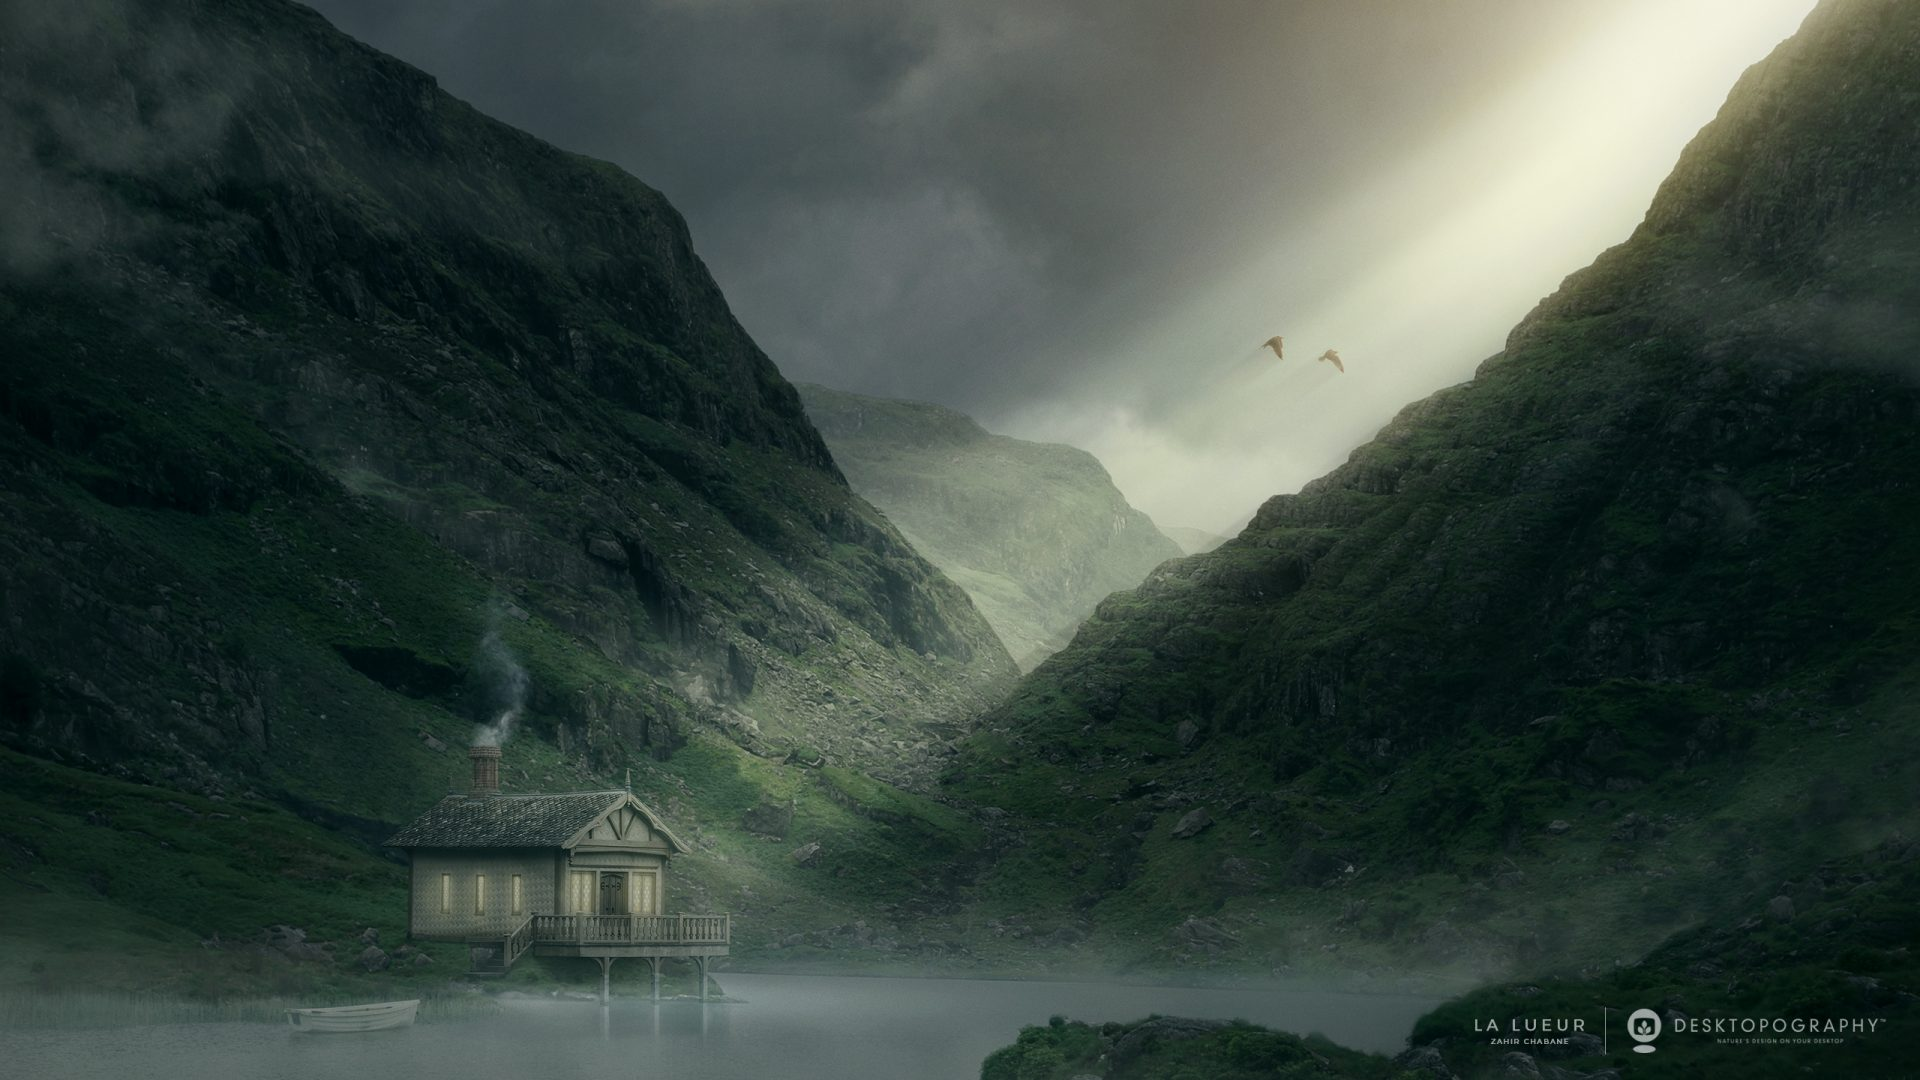
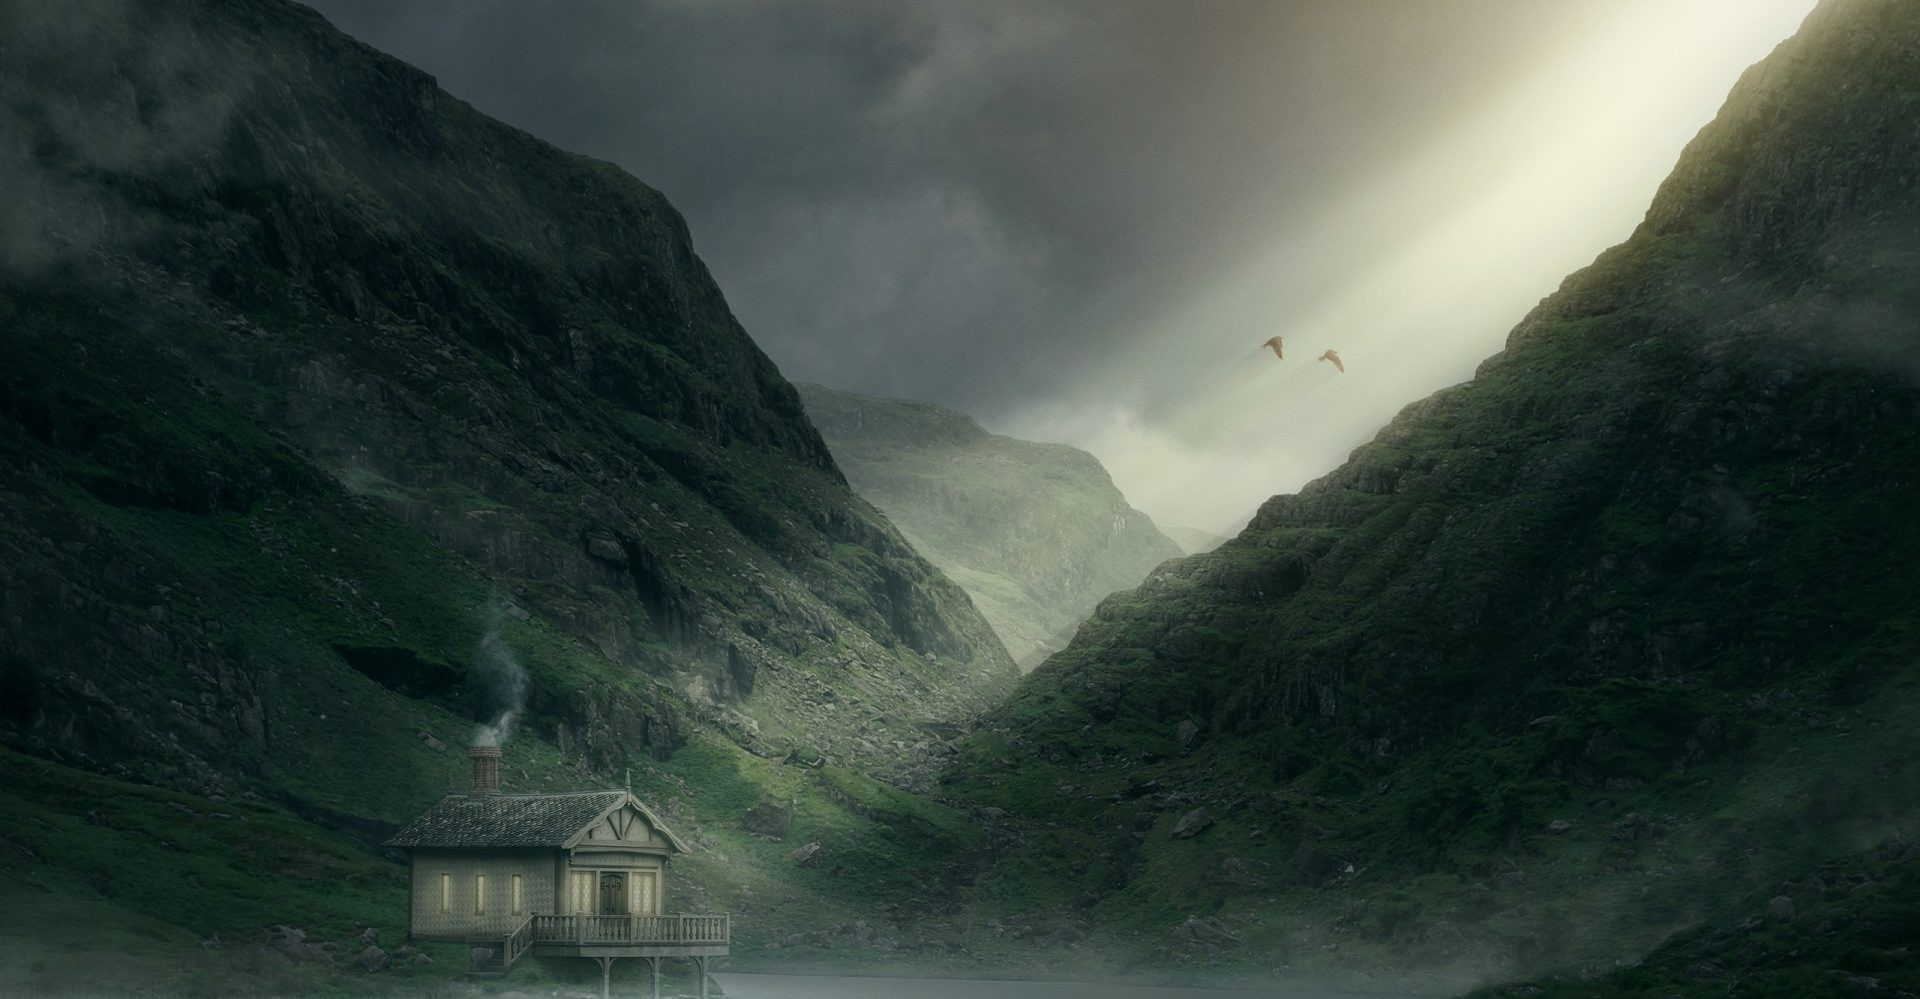
create hostel

diff --git a/index.html b/index.html
@@ -27,7 +27,7 @@
                         <a href="#price" class="header-listItem-links">Цены</a>
                     </li>
                     <li class="header-listItem">
-                        <a href="#" class="header-listItem-links">Адрес</a>
+                        <a href="#" class="header-listItem-links">Контакты</a>
                     </li>
                 </ul>
             </nav>

diff --git a/style.css b/style.css
@@ -262,7 +262,7 @@ header a, header h2 {
 
 .slider {
     position: relative;
-    background: url(./assets/background/la-lueur_1920x1080.jpg) center no-repeat;
+    background: url(./assets/background/la-lueur_1920x1080.jpg) bottom no-repeat;
     background-size: cover;
     height: 450px;
 }
